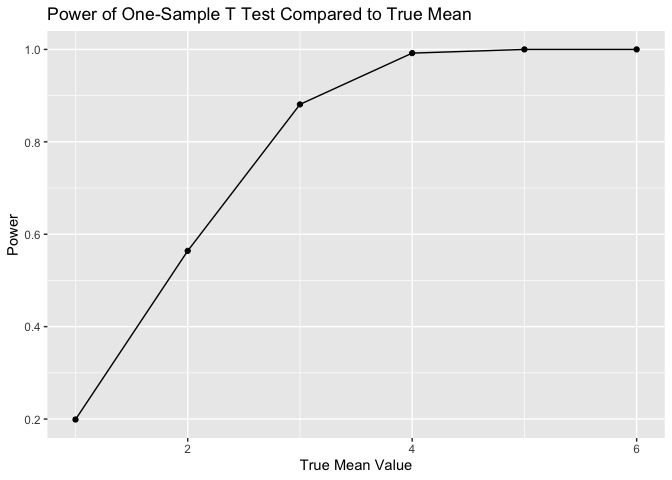
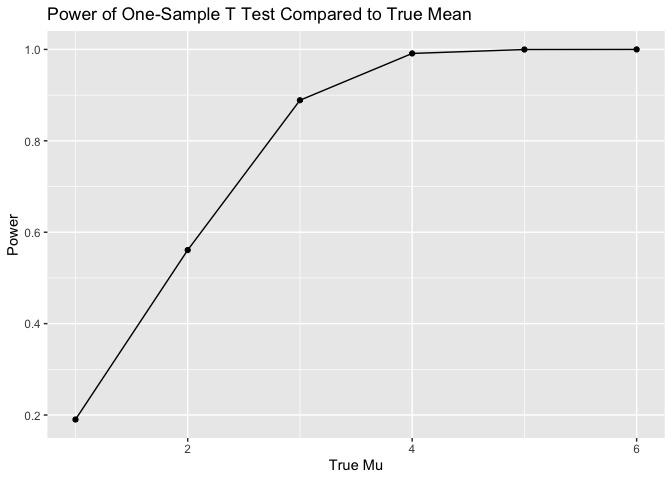
updated figures and titles

diff --git a/p8105_hw5_tp2806.md b/p8105_hw5_tp2806.md
@@ -105,14 +105,14 @@ ttest_simulation <- function(mu, n = 30, sigma = 5) { #fixing n and sigma
 ttest_results <- 
   expand.grid(
     mu_true = 1:6, 
-    iter = 1:1000 #iterate t test 1000 times per mu_true 
+    iter = 1:5000 #iterate t test 5000 times per mu_true 
   ) %>%
   mutate(
     sim = map(mu_true, ttest_simulation)
   ) %>%
   unnest(sim) %>%
   mutate(
-    reject = p_value < 0.05 #only want significant results 
+    reject = p_value < 0.05 #want to know when reject/not reject null  
   )
 
 ttest_results %>%
@@ -147,12 +147,12 @@ ttest_results %>%
 
 T-Test Simulation Results with Estimates
 
-This table demonstrates 3 of the 1000 simulation iterations per true mu
+This table demonstrates 3 of the 5000 simulation iterations per true mu
 value. Each true mu value is compared with a hypothesis testing
 population estimate of mu, its p-value, and whether the null hypothesis
 was rejected or not (indicating significance).
 
-#### Visualizing Power and Estimated Mu vs True Mu
+#### Visualizing power and estimated mu vs true mu
 
 ``` r
 power <- ttest_results %>%
@@ -166,7 +166,7 @@ power %>%
   geom_point() + 
   geom_line() + 
   labs(
-    x="True Mean Value",
+    x="True Mu",
     y="Power",
     title = "Power of One-Sample T Test Compared to True Mean"
   )
@@ -244,30 +244,35 @@ homicide_df <- read_csv("data/homicide-data.csv")
 ``` r
 #Add city_state variable 
 homicide_df <- homicide_df %>%
-  mutate(city_state = str_c(city, ", ", state)) 
+  mutate(city_state = str_c(city, ", ", state))
 
-knitr::kable(head(homicide_df, 5))
+head(homicide_df, 5)
 ```
 
-| uid | reported_date | victim_last | victim_first | victim_race | victim_age | victim_sex | city | state | lat | lon | disposition | city_state |
-|:---|---:|:---|:---|:---|:---|:---|:---|:---|---:|---:|:---|:---|
-| Alb-000001 | 20100504 | GARCIA | JUAN | Hispanic | 78 | Male | Albuquerque | NM | 35.09579 | -106.5386 | Closed without arrest | Albuquerque, NM |
-| Alb-000002 | 20100216 | MONTOYA | CAMERON | Hispanic | 17 | Male | Albuquerque | NM | 35.05681 | -106.7153 | Closed by arrest | Albuquerque, NM |
-| Alb-000003 | 20100601 | SATTERFIELD | VIVIANA | White | 15 | Female | Albuquerque | NM | 35.08609 | -106.6956 | Closed without arrest | Albuquerque, NM |
-| Alb-000004 | 20100101 | MENDIOLA | CARLOS | Hispanic | 32 | Male | Albuquerque | NM | 35.07849 | -106.5561 | Closed by arrest | Albuquerque, NM |
-| Alb-000005 | 20100102 | MULA | VIVIAN | White | 72 | Female | Albuquerque | NM | 35.13036 | -106.5810 | Closed without arrest | Albuquerque, NM |
+    ## # A tibble: 5 × 13
+    ##   uid   reported_date victim_last victim_first victim_race victim_age victim_sex
+    ##   <chr>         <dbl> <chr>       <chr>        <chr>       <chr>      <chr>     
+    ## 1 Alb-…      20100504 GARCIA      JUAN         Hispanic    78         Male      
+    ## 2 Alb-…      20100216 MONTOYA     CAMERON      Hispanic    17         Male      
+    ## 3 Alb-…      20100601 SATTERFIELD VIVIANA      White       15         Female    
+    ## 4 Alb-…      20100101 MENDIOLA    CARLOS       Hispanic    32         Male      
+    ## 5 Alb-…      20100102 MULA        VIVIAN       White       72         Female    
+    ## # ℹ 6 more variables: city <chr>, state <chr>, lat <dbl>, lon <dbl>,
+    ## #   disposition <chr>, city_state <chr>
 
 This dataset contains information on homicides in 50 large U.S. cities,
 as shown in the city_state variable. Each row is a single homicide case.
 
-<br> Key variables include: \* uid - homicide case identification \*
-reported_date - date the case was initially reported \* victim_last;
-victim_first; victim_race; victim_age; victim_sex describe the
-demographic information about the victim of the homicide case \*
-disposition - states the case status (closed without arrest, closed by
-arrest, open/no arrest)
+Key variables include:
 
-#### Summarizing total number of homicides and unsolved homicdies by city
+- uid — homicide case identification
+- reported_date — date the case was initially reported
+- victim_last; victim_first; victim_race; victim_age; victim_sex —
+  demographic info for the victim
+- disposition — case status (closed without arrest, closed by arrest,
+  open/no arrest)
+
+#### Summarizing total number of homicides and unsolved homicides by city
 
 ``` r
 homicide_summary <- 
@@ -277,28 +282,69 @@ homicide_summary <-
     total_homicides = n(), 
     unsolved_homicides = sum(disposition %in% c("Closed without arrest", "Open/No arrest")) #sum the two unsolved categories together
   ) %>%
-  arrange(desc(total_homicides))
+  arrange(desc(total_homicides)) 
 
-knitr::kable(head(homicide_summary, 15))
+homicide_summary %>%
+  knitr::kable(
+    caption = "Total Homicides and Unsolved Homicides for 50 Major US Cities"
+  )
 ```
 
-| city_state       | total_homicides | unsolved_homicides |
-|:-----------------|----------------:|-------------------:|
-| Chicago, IL      |            5535 |               4073 |
-| Philadelphia, PA |            3037 |               1360 |
-| Houston, TX      |            2942 |               1493 |
-| Baltimore, MD    |            2827 |               1825 |
-| Detroit, MI      |            2519 |               1482 |
-| Los Angeles, CA  |            2257 |               1106 |
-| St. Louis, MO    |            1677 |                905 |
-| Dallas, TX       |            1567 |                754 |
-| Memphis, TN      |            1514 |                483 |
-| New Orleans, LA  |            1434 |                930 |
-| Las Vegas, NV    |            1381 |                572 |
-| Washington, DC   |            1345 |                589 |
-| Indianapolis, IN |            1322 |                594 |
-| Kansas City, MO  |            1190 |                486 |
-| Jacksonville, FL |            1168 |                597 |
+| city_state         | total_homicides | unsolved_homicides |
+|:-------------------|----------------:|-------------------:|
+| Chicago, IL        |            5535 |               4073 |
+| Philadelphia, PA   |            3037 |               1360 |
+| Houston, TX        |            2942 |               1493 |
+| Baltimore, MD      |            2827 |               1825 |
+| Detroit, MI        |            2519 |               1482 |
+| Los Angeles, CA    |            2257 |               1106 |
+| St. Louis, MO      |            1677 |                905 |
+| Dallas, TX         |            1567 |                754 |
+| Memphis, TN        |            1514 |                483 |
+| New Orleans, LA    |            1434 |                930 |
+| Las Vegas, NV      |            1381 |                572 |
+| Washington, DC     |            1345 |                589 |
+| Indianapolis, IN   |            1322 |                594 |
+| Kansas City, MO    |            1190 |                486 |
+| Jacksonville, FL   |            1168 |                597 |
+| Milwaukee, wI      |            1115 |                403 |
+| Columbus, OH       |            1084 |                575 |
+| Atlanta, GA        |             973 |                373 |
+| Oakland, CA        |             947 |                508 |
+| Phoenix, AZ        |             914 |                504 |
+| San Antonio, TX    |             833 |                357 |
+| Birmingham, AL     |             800 |                347 |
+| Nashville, TN      |             767 |                278 |
+| Miami, FL          |             744 |                450 |
+| Cincinnati, OH     |             694 |                309 |
+| Charlotte, NC      |             687 |                206 |
+| Oklahoma City, OK  |             672 |                326 |
+| San Francisco, CA  |             663 |                336 |
+| Pittsburgh, PA     |             631 |                337 |
+| New York, NY       |             627 |                243 |
+| Boston, MA         |             614 |                310 |
+| Tulsa, OK          |             583 |                193 |
+| Louisville, KY     |             576 |                261 |
+| Fort Worth, TX     |             549 |                255 |
+| Buffalo, NY        |             521 |                319 |
+| Fresno, CA         |             487 |                169 |
+| San Diego, CA      |             461 |                175 |
+| Stockton, CA       |             444 |                266 |
+| Richmond, VA       |             429 |                113 |
+| Baton Rouge, LA    |             424 |                196 |
+| Omaha, NE          |             409 |                169 |
+| Albuquerque, NM    |             378 |                146 |
+| Long Beach, CA     |             378 |                156 |
+| Sacramento, CA     |             376 |                139 |
+| Minneapolis, MN    |             366 |                187 |
+| Denver, CO         |             312 |                169 |
+| Durham, NC         |             276 |                101 |
+| San Bernardino, CA |             275 |                170 |
+| Savannah, GA       |             246 |                115 |
+| Tampa, FL          |             208 |                 95 |
+| Tulsa, AL          |               1 |                  0 |
+
+Total Homicides and Unsolved Homicides for 50 Major US Cities
 
 As seen in this table, Chicago has the greatest number of total
 homicides and unsolved homicides. Baltimore has the next greatest number
@@ -322,14 +368,23 @@ baltimore_test <-
 baltimore_test=
   baltimore_test %>% 
   broom::tidy() %>%
-  select(estimate, conf.low, conf.high, p.value) %>%
+  select(estimate, conf.low, conf.high, p.value)
+
+baltimore_test %>%
   knitr::kable(
     caption = "Proportion and Confidence Intervals of Unsolved Homicides in Baltimore, MD",
     digits = 4
   )
 ```
 
-#### Prop.Test for All Cities
+| estimate | conf.low | conf.high | p.value |
+|---------:|---------:|----------:|--------:|
+|   0.6456 |   0.6276 |    0.6632 |       0 |
+
+Proportion and Confidence Intervals of Unsolved Homicides in Baltimore,
+MD
+
+#### Prop.Test for all cities
 
 ``` r
 #Run proportion test for each city
@@ -415,7 +470,7 @@ all_city_results %>%
 
 Proportion of Unsolved Homicides for All Cities
 
-#### Visualizing Estimates and CIs for Each City
+#### Visualizing estimates and CIs for each city
 
 ``` r
 all_city_results %>%
